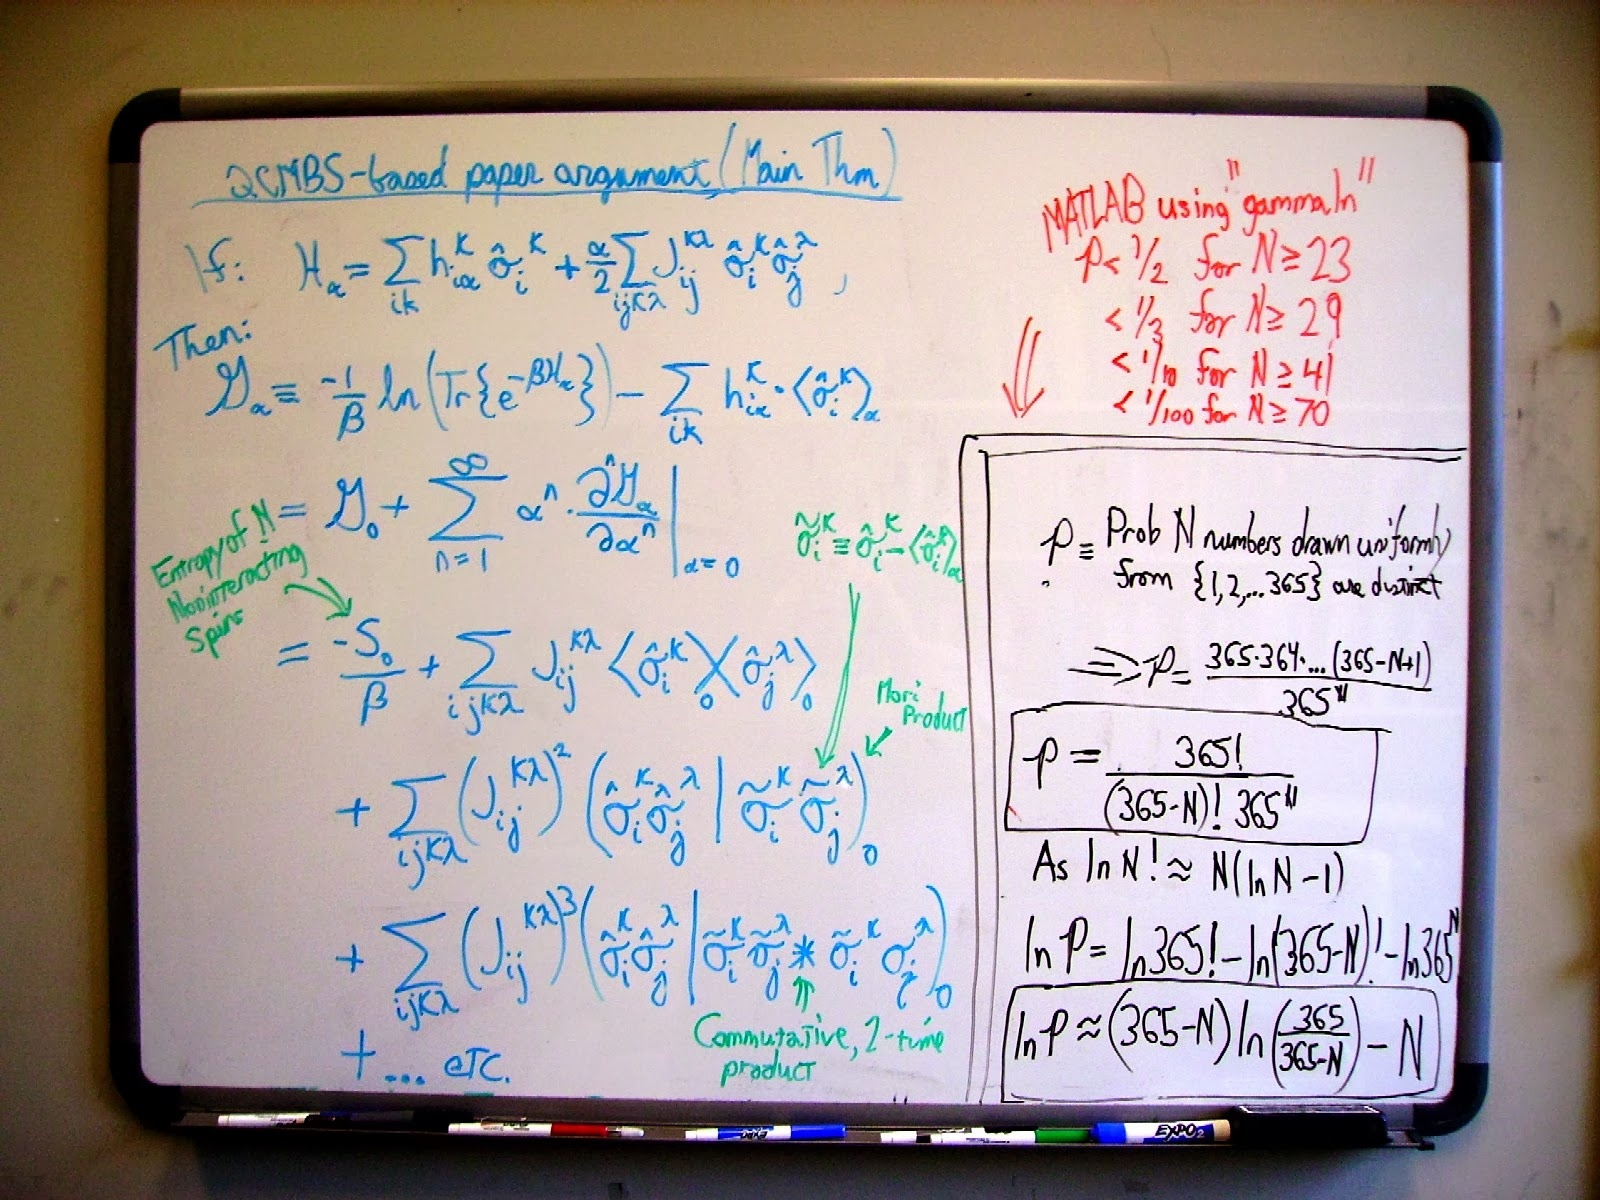
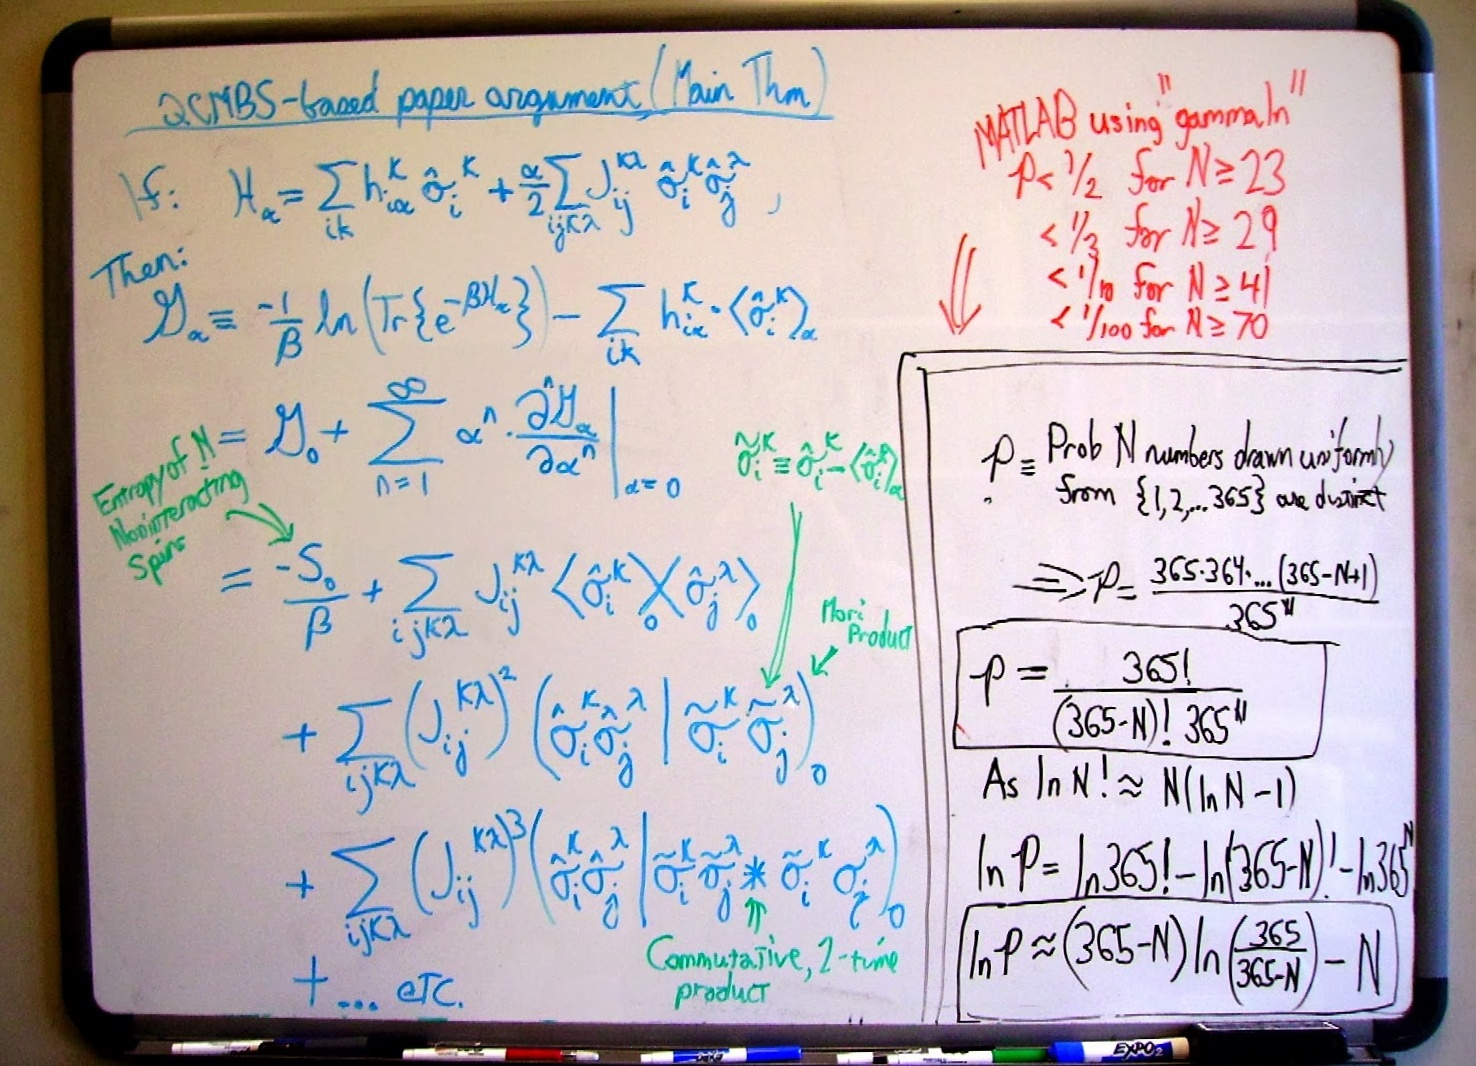
added first process

diff --git a/src/backend/clearboard/main.py b/src/backend/clearboard/main.py
@@ -112,7 +112,10 @@ async def photo(process=""):
             print('image sent')
             if process == "process1":
                 print("process 1 selected")
-                return 'process 1 selected'
+                whiteboard_enhance(cv2.imread("./cropped_reoriented.jpg"))
+                img = Image.open('./cropped_reoriented.jpg')
+                volume = np.asarray(img)
+                image = get_image(volume)
             elif process == "process2":
                 print("process 2 selected")
                 return 'process 2 selected'
@@ -233,6 +236,229 @@ def traitement(imageNT, coordonnees):
     cv2.imwrite("./cropped_reoriented.jpg", cropped)
     end = time.time()
     print('temps imwrite save', end - start)
+
+
+def normalize_kernel(kernel, k_width, k_height, scaling_factor=1.0):
+    '''Zero-summing normalize kernel'''
+
+    K_EPS = 1.0e-12
+    # positive and negative sum of kernel values
+    pos_range, neg_range = 0, 0
+    for i in range(k_width * k_height):
+        if abs(kernel[i]) < K_EPS:
+            kernel[i] = 0.0
+        if kernel[i] < 0:
+            neg_range += kernel[i]
+        else:
+            pos_range += kernel[i]
+
+    # scaling factor for positive and negative range
+    pos_scale, neg_scale = pos_range, -neg_range
+    if abs(pos_range) >= K_EPS:
+        pos_scale = pos_range
+    else:
+        pos_sacle = 1.0
+    if abs(neg_range) >= K_EPS:
+        neg_scale = 1.0
+    else:
+        neg_scale = -neg_range
+
+    pos_scale = scaling_factor / pos_scale
+    neg_scale = scaling_factor / neg_scale
+
+    # scale kernel values for zero-summing kernel
+    for i in range(k_width * k_height):
+        if (not np.nan == kernel[i]):
+            kernel[i] *= pos_scale if kernel[i] >= 0 else neg_scale
+
+    return kernel
+
+
+def dog(img, k_size, sigma_1, sigma_2):
+    '''Difference of Gaussian by subtracting kernel 1 and kernel 2'''
+
+    k_width = k_height = k_size
+    x = y = (k_width - 1) // 2
+    kernel = np.zeros(k_width * k_height)
+
+    # first gaussian kernal
+    if sigma_1 > 0:
+        co_1 = 1 / (2 * sigma_1 * sigma_1)
+        co_2 = 1 / (2 * np.pi * sigma_1 * sigma_1)
+        i = 0
+        for v in range(-y, y + 1):
+            for u in range(-x, x + 1):
+                kernel[i] = np.exp(-(u*u + v*v) * co_1) * co_2
+                i += 1
+    # unity kernel
+    else:
+        kernel[x + y * k_width] = 1.0
+
+    # subtract second gaussian from kernel
+    if sigma_2 > 0:
+        co_1 = 1 / (2 * sigma_2 * sigma_2)
+        co_2 = 1 / (2 * np.pi * sigma_2 * sigma_2)
+        i = 0
+        for v in range(-y, y + 1):
+            for u in range(-x, x + 1):
+                kernel[i] -= np.exp(-(u*u + v*v) * co_1) * co_2
+                i += 1
+    # unity kernel
+    else:
+        kernel[x + y * k_width] -= 1.0
+
+    # zero-normalize scling kernel with scaling factor 1.0
+    norm_kernel = normalize_kernel(
+        kernel, k_width, k_height, scaling_factor=1.0)
+
+    # apply filter with norm_kernel
+    return cv2.filter2D(img, -1, norm_kernel.reshape(k_width, k_height))
+
+
+def negate(img):
+    '''Negative of image'''
+
+    return cv2.bitwise_not(img)
+
+
+def get_black_white_indices(hist, tot_count, black_count, white_count):
+    '''Blacking and Whiting out indices same as color balance'''
+
+    black_ind = 0
+    white_ind = 255
+    co = 0
+    for i in range(len(hist)):
+        co += hist[i]
+        if co > black_count:
+            black_ind = i
+            break
+
+    co = 0
+    for i in range(len(hist) - 1, -1, -1):
+        co += hist[i]
+        if co > (tot_count - white_count):
+            white_ind = i
+            break
+
+    return [black_ind, white_ind]
+
+
+def contrast_stretch(img, black_point, white_point):
+    '''Contrast stretch image with black and white cap'''
+
+    tot_count = img.shape[0] * img.shape[1]
+    black_count = tot_count * black_point / 100
+    white_count = tot_count * white_point / 100
+    ch_hists = []
+    # calculate histogram for each channel
+    for ch in cv2.split(img):
+        ch_hists.append(cv2.calcHist([ch], [0], None, [
+                        256], (0, 256)).flatten().tolist())
+
+    # get black and white percentage indices
+    black_white_indices = []
+    for hist in ch_hists:
+        black_white_indices.append(get_black_white_indices(
+            hist, tot_count, black_count, white_count))
+
+    stretch_map = np.zeros((3, 256), dtype='uint8')
+
+    # stretch histogram
+    for curr_ch in range(len(black_white_indices)):
+        black_ind, white_ind = black_white_indices[curr_ch]
+        for i in range(stretch_map.shape[1]):
+            if i < black_ind:
+                stretch_map[curr_ch][i] = 0
+            else:
+                if i > white_ind:
+                    stretch_map[curr_ch][i] = 255
+                else:
+                    if (white_ind - black_ind) > 0:
+                        stretch_map[curr_ch][i] = round(
+                            (i - black_ind) / (white_ind - black_ind)) * 255
+                    else:
+                        stretch_map[curr_ch][i] = 0
+
+    # stretch image
+    ch_stretch = []
+    for i, ch in enumerate(cv2.split(img)):
+        ch_stretch.append(cv2.LUT(ch, stretch_map[i]))
+
+    return cv2.merge(ch_stretch)
+
+
+def fast_gaussian_blur(img, ksize, sigma):
+    '''Gussian blur using linear separable property of Gaussian distribution'''
+
+    kernel_1d = cv2.getGaussianKernel(ksize, sigma)
+    return cv2.sepFilter2D(img, -1, kernel_1d, kernel_1d)
+
+
+def gamma(img, gamma_value):
+    '''Gamma correction of image'''
+
+    i_gamma = 1 / gamma_value
+    lut = np.array([((i / 255) ** i_gamma) *
+                   255 for i in np.arange(0, 256)], dtype='uint8')
+    return cv2.LUT(img, lut)
+
+
+def color_balance(img, low_per, high_per):
+    '''Contrast stretch image by histogram equilization with black and white cap'''
+
+    tot_pix = img.shape[1] * img.shape[0]
+    # no.of pixels to black-out and white-out
+    low_count = tot_pix * low_per / 100
+    high_count = tot_pix * (100 - high_per) / 100
+
+    cs_img = []
+    # for each channel, apply contrast-stretch
+    for ch in cv2.split(img):
+        # cummulative histogram sum of channel
+        cum_hist_sum = np.cumsum(cv2.calcHist(
+            [ch], [0], None, [256], (0, 256)))
+
+        # find indices for blacking and whiting out pixels
+        li, hi = np.searchsorted(cum_hist_sum, (low_count, high_count))
+        if (li == hi):
+            cs_img.append(ch)
+            continue
+        # lut with min-max normalization for [0-255] bins
+        lut = np.array([0 if i < li
+                        else (255 if i > hi else round((i - li) / (hi - li) * 255))
+                        for i in np.arange(0, 256)], dtype='uint8')
+        # constrast-stretch channel
+        cs_ch = cv2.LUT(ch, lut)
+        cs_img.append(cs_ch)
+
+    return cv2.merge(cs_img)
+
+
+def whiteboard_enhance(img):
+    '''Enhance Whiteboard image'''
+
+    dog_k_size, dog_sigma_1, dog_sigma_2 = 15, 100, 0
+    cs_black_per, cs_white_per = 2, 99.5
+    gauss_k_size, gauss_sigma = 3, 1
+    gamma_value = 1.1
+    cb_black_per, cb_white_per = 2, 1
+
+    # Difference of Gaussian (DoG)
+    dog_img = dog(img, dog_k_size, dog_sigma_1, dog_sigma_2)
+    # Negative of image
+    negative_img = negate(dog_img)
+    # Contrast Stretch (CS)
+    contrast_stretch_img = contrast_stretch(
+        negative_img, cs_black_per, cs_white_per)
+    # Gaussian Blur
+    blur_img = fast_gaussian_blur(
+        contrast_stretch_img, gauss_k_size, gauss_sigma)
+    # Gamma Correction
+    gamma_img = gamma(blur_img, gamma_value)
+    # Color Balance (CB) (also Contrast Stretch)
+    color_balanced_img = color_balance(gamma_img, cb_black_per, cb_white_per)
+
+    cv2.imwrite("./cropped_reoriented.jpg", color_balanced_img)
 
 
 @app.post("/coord")
